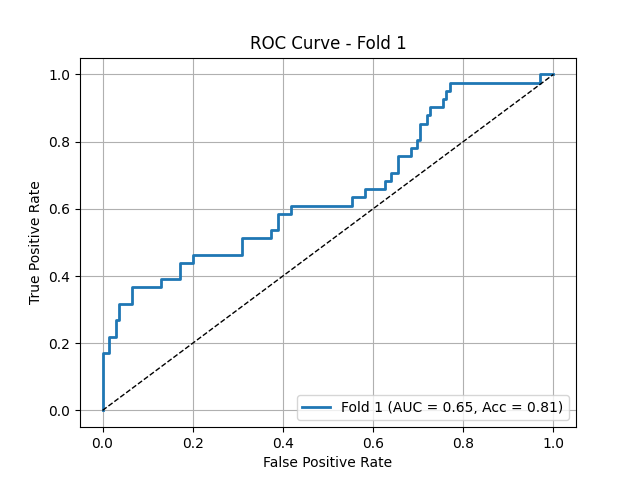
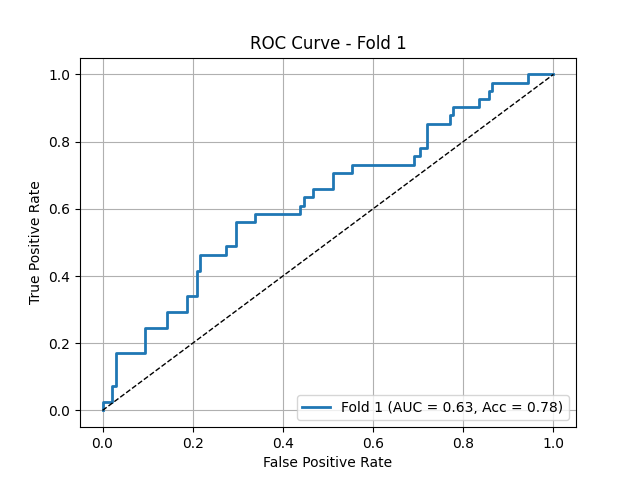
elastic transform enhanced

diff --git a/dataset_washu2.py b/dataset_washu2.py
@@ -81,7 +81,7 @@ train_transform = A.Compose([
 	A.GaussNoise(std_range=(0.02, 0.1), p=0.6),
 	
 	A.RandomBrightnessContrast(brightness_limit=(-0.01, 0.01), contrast_limit=(-0.01, 0.01), p=0.5),
-    A.ElasticTransform(alpha = 5, sigma = 250, p=0.5),
+    A.ElasticTransform(alpha = 10, sigma = 250, p=0.5),
     A.GridDistortion(distort_limit=(-0.1,0.1), p=0.5),
     # #A.CLAHE(clip_limit=.5, tile_grid_size=(8, 8), p=0.5),
 	A.ShiftScaleRotate(shift_limit=(-0.005,0.005), scale_limit=(-0.2, 0.005), rotate_limit=(-30,30), border_mode=0, value=0, p=0.9), 

diff --git a/train_washu2_classifier_multihead.py b/train_washu2_classifier_multihead.py
@@ -22,7 +22,7 @@ import random
 SEED = 99 
 np.random.seed(SEED); torch.manual_seed(SEED) ; random.seed(SEED); 
 
-max_epochs = 200
+max_epochs = 100
 min_epochs = 1
 batch_size = 32
 check_val_every_n_epoch = 3
